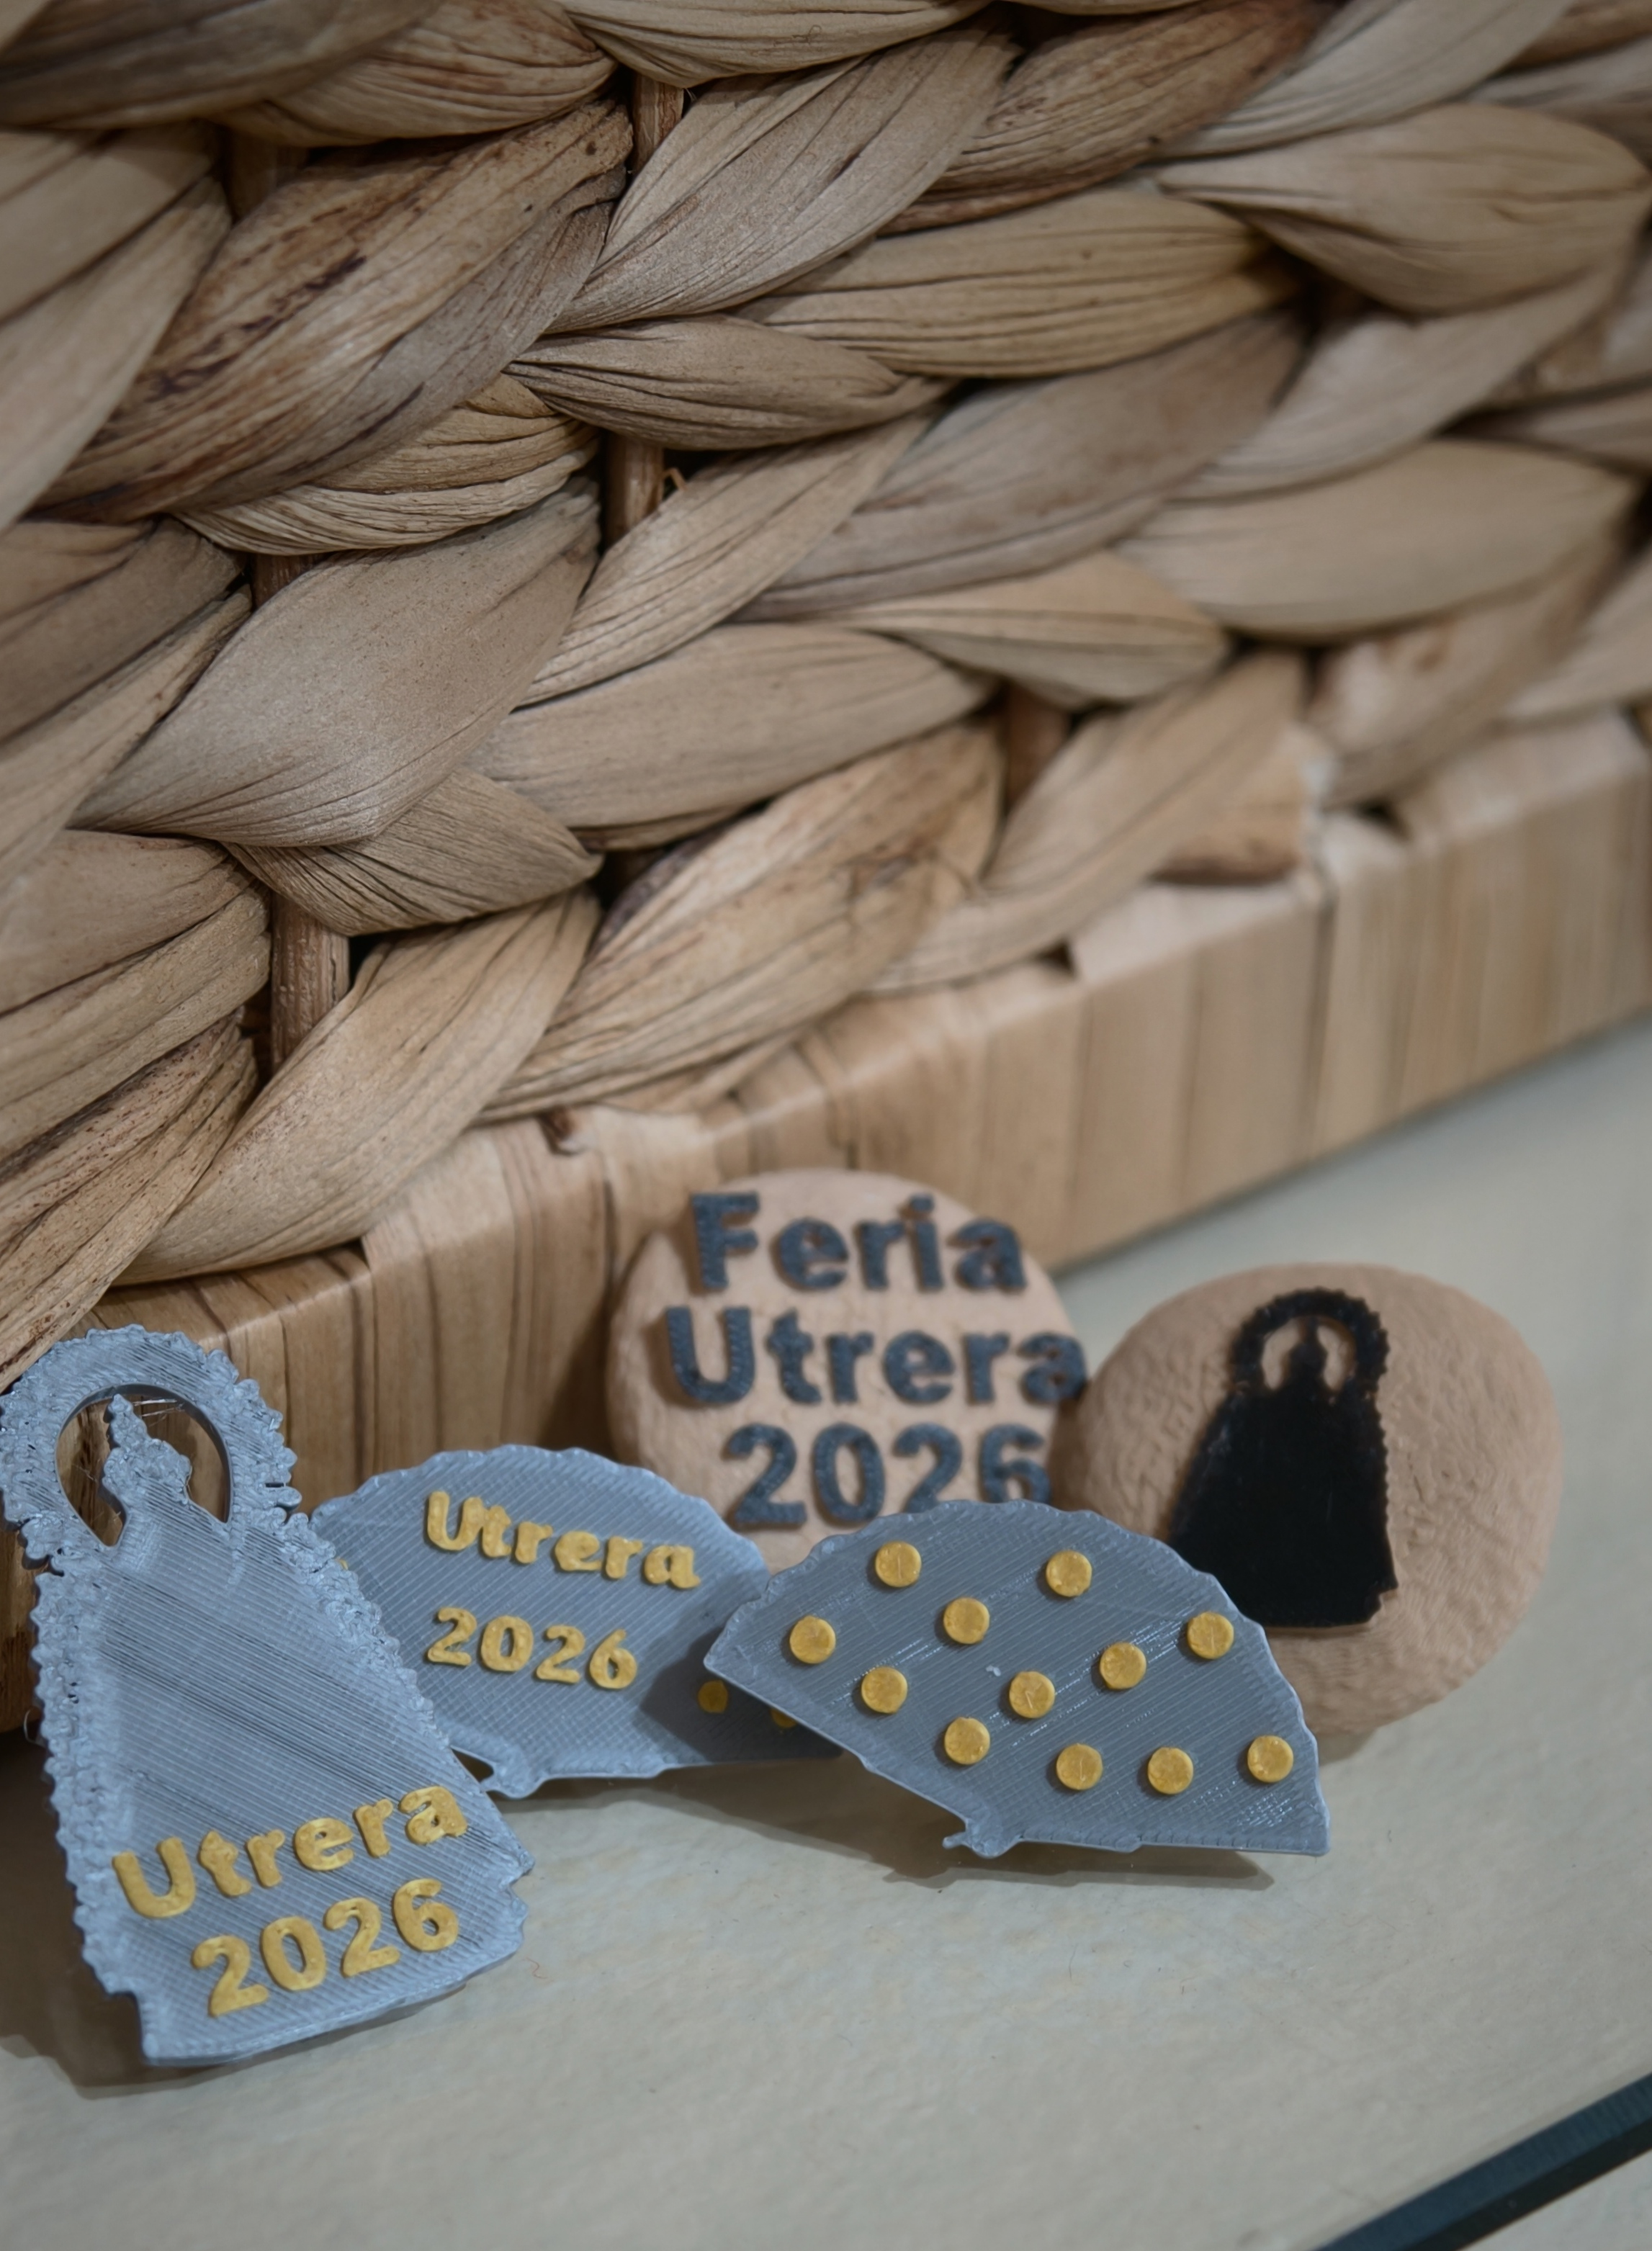
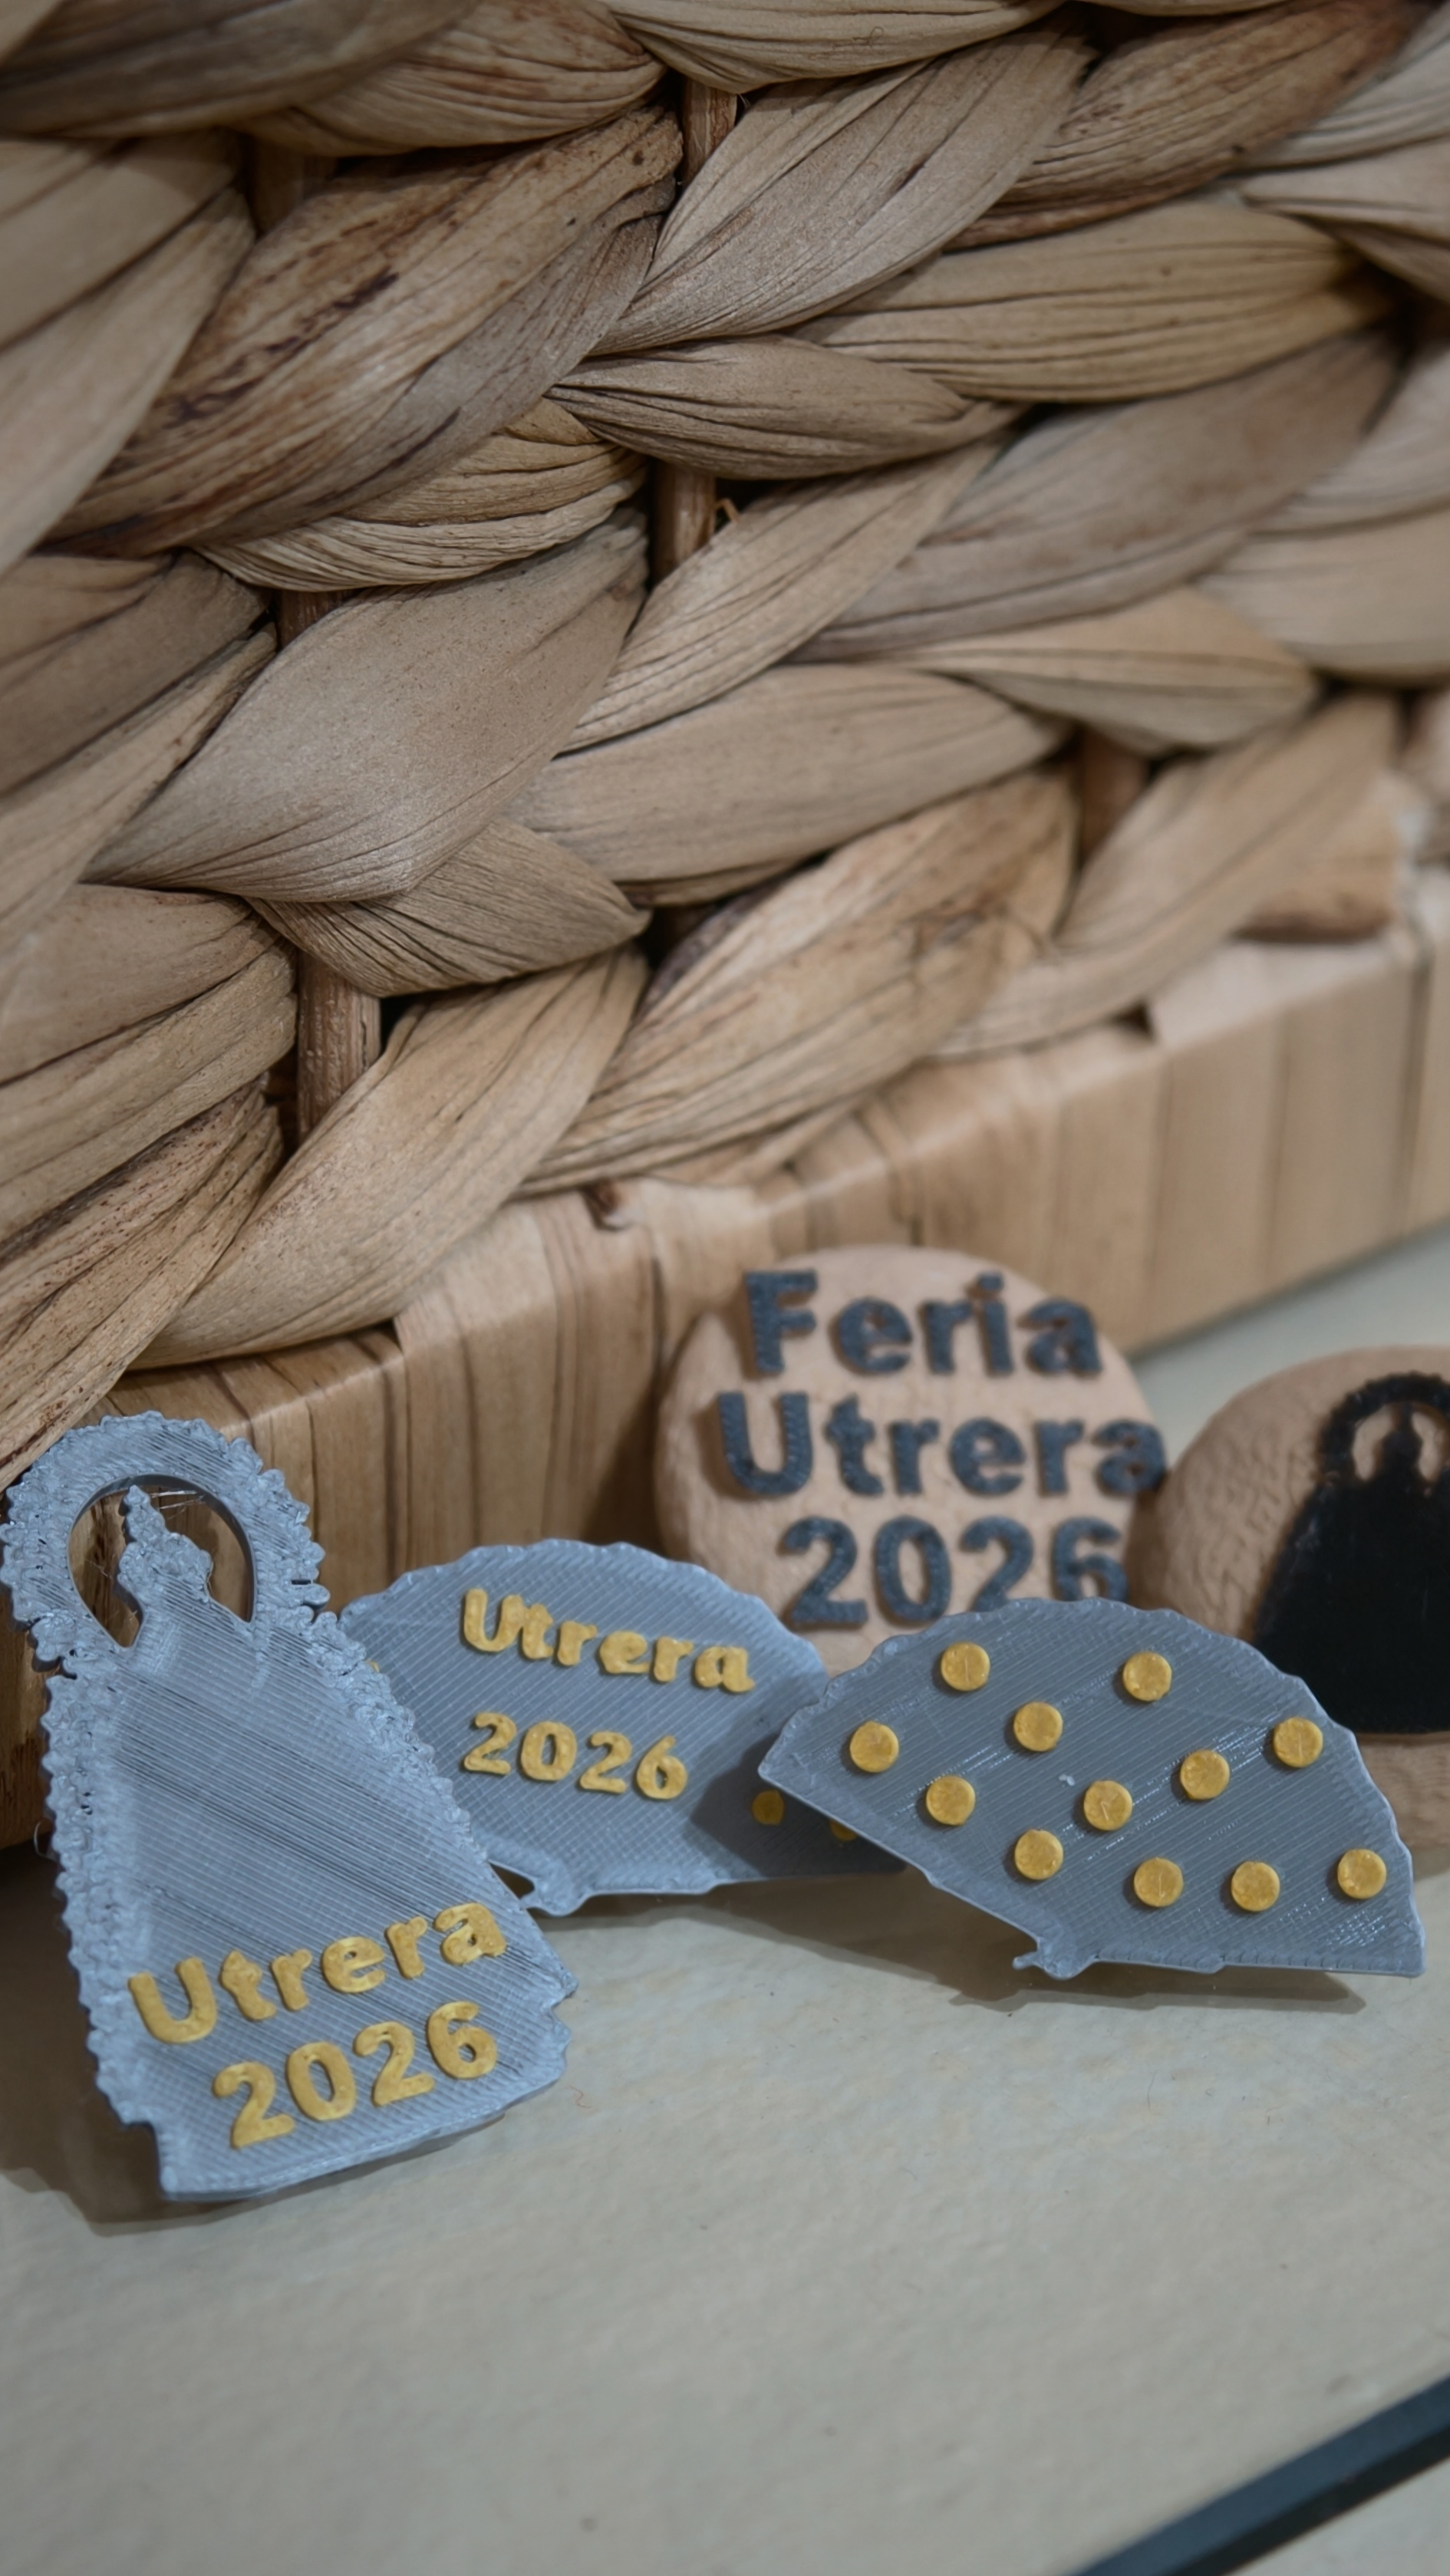
neroli web 1.0

diff --git a/neroli3d/src/components/components_css/top_bar.css b/neroli3d/src/components/components_css/top_bar.css
@@ -19,15 +19,68 @@
 #elements {
   display: flex;
   align-items: center;
-  justify-content: center;
-  gap: 50px; /* Ajustado */
+  justify-content: flex-end;
+  gap: 50px;
   width: 100%;
+  position: relative;
+}
+
+.titulo {
+  position: absolute;
+  left: 50%;
+  color: #4f4928;
+  transform: translateX(-50%);
+  white-space: nowrap;
+  font-size: 5rem;
+}
+
+
+.menu-opciones {
+  position: absolute;
+  top: 100%;
+  left: 0;
+  width: 100%;
+  background-color: #f1f3f5be;
+  list-style: none;
+  padding: 0;
+  margin: 0;
+  display: flex;
+  align-items: center;
+  flex-direction: column;
+  gap: 1rem;
+  overflow: hidden; 
+  max-height: 0; 
+  transition: max-height 0.3s ease-in-out, padding 0.3s ease-in-out;
+}
+
+.hamburger{
+    height: 40px;
+    width: 40px;
+    border-radius: 100px;
+    background-color: #afa48f;
+    border: 2px solid #8e8e8e;
+    cursor: pointer;
+    font-size: 16px;
+    margin-top: 10px;
+    margin-bottom: 10px;
+    transition: background-color 0.3s, color 0.3s;
+    margin-right: 20px;
+}
+
+.menu-opciones li {
+  padding: 0 1rem;
+}
+
+.menu-opciones.open {
+  max-height: 200px;
+  padding: 1rem 0;
 }
 
 /* Ajustes para móviles */
 @media (max-width: 768px) {
   #top_bar { font-size: 1.5rem; }
   #elements { gap: 20px; }
+  .titulo {font-size: 3rem;}
 }
 
 @media (max-width: 480px) {

diff --git a/neroli3d/src/components/top_bar.tsx b/neroli3d/src/components/top_bar.tsx
@@ -1,18 +1,27 @@
 import "./components_css/top_bar.css";
 import NavButton from "./nav_button.tsx";
-function top_bar({nombreIzq, rutaIzq, nombreDer, rutaDer, titulo} : {nombreIzq: string, rutaIzq: string, nombreDer: string, rutaDer: string, titulo: string}) {
-   
+import { useState } from "react";
+
+function TopBar({ nombreIzq, rutaIzq, nombreDer, rutaDer, titulo }: { nombreIzq: string, rutaIzq: string, nombreDer: string, rutaDer: string, titulo: string }) {
+  const [isOpen, setIsOpen] = useState(false);
+
   return (
-    <>
-      <div id="top_bar">
-        <div id="elements">
-          <NavButton nombre = {nombreIzq} ruta={rutaIzq} />
-          <div className="titulo">{titulo}</div>
-          <NavButton nombre={nombreDer} ruta={rutaDer} />
-        </div>
+    <div id="top_bar">
+      <div id="elements">
+        <div className="titulo">{titulo}</div>
+        
+        <button className="hamburger" onClick={() => setIsOpen(!isOpen)}>
+          ☰
+        </button>
+
+        {/* Contenedor de las dos opciones de navegación, cambia de clase según el estado */}
+        <ul className={`menu-opciones ${isOpen ? "open" : ""}`}>
+          <li><NavButton nombre={nombreIzq} ruta={rutaIzq} /></li>
+          <li><NavButton nombre={nombreDer} ruta={rutaDer} /></li>
+        </ul>
       </div>
-    </>
+    </div>
   );
 }
 
-export default top_bar;
+export default TopBar;

diff --git a/neroli3d/src/customHooks/findImg.ts b/neroli3d/src/customHooks/findImg.ts
@@ -1,0 +1,20 @@
+import { useMemo } from "react";
+import data from "../data/imgData.json";
+
+interface Product {
+    name : string,
+    url : string,
+    description : string
+}
+
+export function useSearchInfo(producto: string): Product {
+
+  const url = useMemo(() => {
+    // Buscamos el objeto por el campo dinámico (p. ej. "name")
+    const item = (data as any[]).find((el) => el.name === producto);
+
+    return item;
+  }, [producto]);
+
+  return url;
+}

diff --git a/neroli3d/src/components/modal_card.tsx b/neroli3d/src/components/modal_card.tsx
@@ -1,31 +1,34 @@
 import * as Dialog from "@radix-ui/react-dialog";
 import { useState } from "react";
 import "./components_css/modal_card.css";
-import Pines from "../assets/catalog_image/pines.jpg"
+import {useSearchInfo} from "../customHooks/findImg";
 
-function ModalCard({producto}:{producto:string}) {
+function ModalCard({producto, productoName}:{producto:string, productoName:string}) {
     const [abierto, setAbierto] = useState(false);
+
+    const product = useSearchInfo(productoName)
+
 
     return (
         <>
-            <button type="button" onClick={() => setAbierto(true)}>Ver más</button>
+            <button className="button-card" type="button" onClick={() => setAbierto(true)}>Ver más</button>
             <Dialog.Root open={abierto} onOpenChange={setAbierto}>
                 <Dialog.Portal>
                     <Dialog.Overlay className="back"/>
 
                     <Dialog.Content className="content">
-                        <div className="modal-img"><img className="catalog-img" src={Pines} alt="Detalle del producto"/></div>
+                        <div className="modal-img"><img className="catalog-img" src={product.url} alt="Detalle del producto"/></div>
                         <div className="modal-info">
                             <div className="modal-title">
                                 <Dialog.Title>{producto}</Dialog.Title>
                             </div>
                             
                             <div className="modal-text">
-                                <Dialog.Description>Descripción accesible.</Dialog.Description>
+                                <Dialog.Description>{product.description}</Dialog.Description>
                             </div>
 
                             <Dialog.Close asChild>
-                                <button type="button">Cerrar</button>
+                                <button type="button" className="button-card">Cerrar</button>
                             </Dialog.Close>
                         </div>
 

diff --git a/neroli3d/src/components/card_container.tsx b/neroli3d/src/components/card_container.tsx
@@ -5,13 +5,13 @@ function card_container() {
   return (
     <>
         <div className="card_container">
-            <Card nombre="Estampitas 3D" />
-            <Card nombre="Pines" />
-            <Card nombre="Nero Pops" />
-            <Card nombre="Celebraciones" />
-            <Card nombre="NeroLámparas" />
-            <Card nombre="NeroNazarenos" />
-            <Card nombre="Coleccionismo" />
+            <Card nombre="Estampitas 3D" urlName = "estampitas"/>
+            <Card nombre="Pines" urlName = "pines"/>
+            <Card nombre="Nero Pops" urlName = "neropops"/>
+            <Card nombre="Celebraciones" urlName = "celebraciones"/>
+            <Card nombre="NeroLámparas" urlName = "nerolamparas"/>
+            <Card nombre="NeroNazarenos" urlName = "neronazarenos"/>
+            <Card nombre="Coleccionismo" urlName = "coleccionismo"/>
         </div>
     </>
   )

diff --git a/neroli3d/src/components/card.tsx b/neroli3d/src/components/card.tsx
@@ -1,16 +1,19 @@
 import "./components_css/card.css";
-import logoImage from "../assets/neroli_logo.jpg";
 import ModalCard from "../components/modal_card";
+import {useSearchInfo} from "../customHooks/findImg";
 
-function card({nombre}: {nombre: string}){
+function Card({nombre, urlName}: {nombre: string, urlName: string}){
+
+    const product = useSearchInfo(urlName)
+    console.log(product.url)
     return(
         <>
             <div className="card">
-                <img className="card-image" src={logoImage} alt="Image" />
+                <img className="card-image" src={product.url} alt="Image" />
                 <h3 className="card-title">{nombre}</h3>
-                <ModalCard producto={nombre}></ModalCard>
+                <ModalCard producto={nombre} productoName={urlName}></ModalCard>
             </div>
         </>
     )
 }
-export default card;
+export default Card;

diff --git a/neroli3d/src/components/components_css/main_page.css b/neroli3d/src/components/components_css/main_page.css
@@ -45,3 +45,16 @@ body{
 }
 
 }
+
+@media (max-width: 480px) {
+  #main_div {
+    display: flex;
+    flex-direction: column;
+    justify-content: center;
+    padding-bottom: 70px;     /* 100vh significa '100% de la altura de la pantalla (Viewport Height)' */
+    box-sizing: border-box;
+  }
+  
+}
+
+

diff --git a/neroli3d/src/components/components_css/nav_button.css b/neroli3d/src/components/components_css/nav_button.css
@@ -1,4 +1,4 @@
-button {
+.button-nav {
   background-color: #afa48f;
   width: 100%;
   height: 100%;
@@ -9,13 +9,13 @@ button {
   justify-content: center;
 }
 
-button:hover {
+.button-nav:hover {
   background-color: #d9d2c1;
   cursor: pointer;
 }
 
 @media (max-width: 768px) {
-  button {
+  .button-nav {
     background-color: #afa48f;
     width: 150px;
     height: 60px;
@@ -29,9 +29,8 @@ button:hover {
 }
 
 @media (max-width: 480px) {
-  button {
-    width: 100%;
-    max-width: 220px;
+  .button-nav {
+    width: 200px;
     font-size: 1.4rem;
     margin-top: 12px;
     margin-bottom: 12px;

diff --git a/neroli3d/src/components/components_css/modal_card.css b/neroli3d/src/components/components_css/modal_card.css
@@ -18,6 +18,15 @@
     border: 2px solid black;
 }
 
+.modal-text{
+    height: 90%;
+    margin-top: 10px;
+    text-align: center;
+    display: flex;
+    align-items: center;
+    justify-content: center;
+}
+
 .modal-title{
     background-color: aliceblue;
 }

diff --git a/neroli3d/src/components/components_css/card.css b/neroli3d/src/components/components_css/card.css
@@ -15,10 +15,7 @@
 
 .card-image{
     width: 100%;
-    height: 180px;
-    object-fit: cover;
-    border-top-left-radius: 10px;
-    border-top-right-radius: 10px;
+    border-radius: 50px;
 }
 
 .card-title{
@@ -28,7 +25,7 @@
     color: #4f4928;
 }
 
-button{
+.button-card{
     height: 40px;
     width: 150px;
     background-color: #afa48f;

diff --git a/neroli3d/src/components/nav_button.tsx b/neroli3d/src/components/nav_button.tsx
@@ -8,7 +8,7 @@ function Nav_button({ nombre , ruta}: { nombre: string, ruta: string }) {
   return (
     <>
       <Link to={ruta} style={{ textDecoration: 'none' }}>
-        <button>{nombre}</button>
+        <button className="button-nav">{nombre}</button>
       </Link>
     </>
   );

diff --git a/neroli3d/src/components/components_css/bot_bar.css b/neroli3d/src/components/components_css/bot_bar.css
@@ -26,3 +26,4 @@ p{
   position: fixed; 
   bottom: 0;
   }
+}